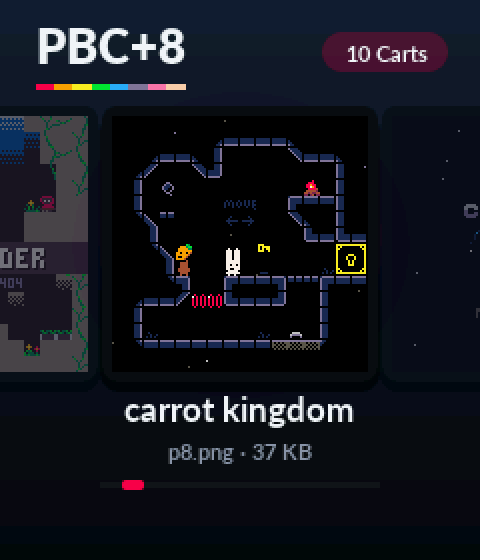
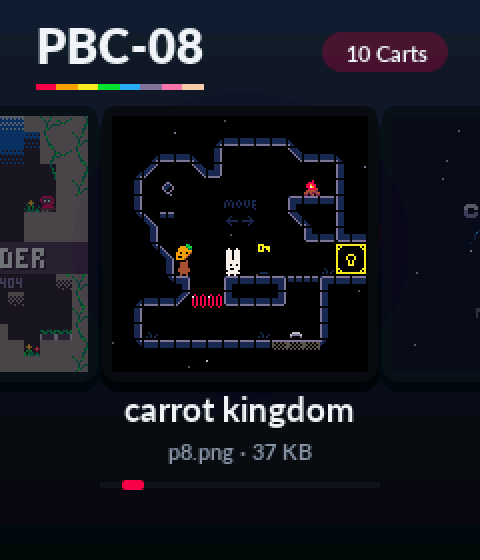
Rename to PBC-08 in honour of fake-08, credit jtothebell in the menu

Changed region(s): [[0.2812, 0.0304, 0.4375, 0.1214], [0.1875, 0.1518, 0.4375, 0.1821]]

diff --git a/src/menu.cpp b/src/menu.cpp
@@ -462,7 +462,7 @@ static void options_card(const Options &o, int slide)
         }
     }
     gfx_text_centered(&font_small, GFX_W / 2, y0 + 134, "links/rechts \x84ndern \xfa A/B fertig", DIM, 255);
-    gfx_text_centered(&font_small, GFX_W / 2, y0 + 156, "PBC+8 \xfa fake-08", FAINT, 255);
+    gfx_text_centered(&font_small, GFX_W / 2, y0 + 156, "PBC-08 \xfa fake-08 by jtothebell", FAINT, 255);
 }
 
 // ---- the menu ------------------------------------------------------------------------------
@@ -481,7 +481,7 @@ static void menu_screen(const Menu &m)
     background();
 
     // header
-    int lw = gfx_text(&font_title, 18, 8, "PBC+8", TEXT, 255);
+    int lw = gfx_text(&font_title, 18, 8, "PBC-08", TEXT, 255);
     logo_stripe(18, 42, lw, 3, 255);
     char chip[64];
     int n = count_carts(m.v);

diff --git a/src/usb_descriptors.c b/src/usb_descriptors.c
@@ -68,7 +68,7 @@ enum { STRID_LANGID, STRID_MANUFACTURER, STRID_PRODUCT, STRID_SERIAL };
 static const char *string_desc_arr[] = {
     (const char[]){ 0x09, 0x04 },   // 0: language = English (0x0409)
     "PicoBoy",                      // 1: Manufacturer
-    "PBC+8 Carts",             // 2: Product
+    "PBC-08 Carts",             // 2: Product
     NULL,                           // 3: Serial (filled from unique id)
 };
 

diff --git a/src/usb_msc.c b/src/usb_msc.c
@@ -36,7 +36,7 @@ void tud_msc_inquiry_cb(uint8_t lun, uint8_t vendor_id[8], uint8_t product_id[16
                         uint8_t product_rev[4]) {
     (void)lun;
     const char vid[] = "PicoBoy";
-    const char pid[] = "PBC+8 Carts";
+    const char pid[] = "PBC-08 Carts";
     const char rev[] = "1.0";
     memcpy(vendor_id,  vid, strlen(vid));
     memcpy(product_id, pid, strlen(pid));

diff --git a/CLAUDE.md b/CLAUDE.md
@@ -1,4 +1,4 @@
-# PBC+8 – Arbeitsnotizen
+# PBC-08 – Arbeitsnotizen
 
 PICO-8-kompatibler Player (fake-08 + z8lua) für den PicoBoy Color Plus.
 Repo: https://github.com/hcl1981/pbc-pico8 (öffentlich, Release v1.0 mit UF2).
@@ -11,7 +11,7 @@ Nutzer schreibt Deutsch; Antworten auf Deutsch. README.md beschreibt Bedienung u
 - Im USB-Stick-Modus liegt das Laufwerk unter `/run/media/$USER/PICO8`
   (Carts, `pico8.cfg`, `cdata/` mit Spielständen und ROM-Caches).
 - Nach Firmware-Änderungen: bauen, flashen, dann um einen Test am Gerät bitten.
-- Name auf dem Gerät ist „PBC+8“ (nicht „PICO-8“, Marke von Lexaloffle).
+- Name ist „PBC-08“ (Verweis auf fake-08; nie „PICO“ im Namen, Marke von Lexaloffle).
 - Commits als hcl1981 mit GitHub-noreply-Adresse; BBS-Carts nie committen.
 
 ## Hardware (PBC+)
@@ -67,6 +67,6 @@ HEAP_TOTAL, MARK_GC, PBC_NO_ROMCACHE, PBC_FIXED_SEED. Die Zahlen sind 64-Bit;
 - Am Gerät getestet: Celeste, Pico Valley, Crimson Night, Dust Bunny, 512px Under.
 - Auf dem Gerät: zusätzlich Carrot Kingdom, Peak of Empires, Loop, Molemole, Rubyeyes.
 - Zu groß: Touhou Unmei no Hoshi, Pico Backrooms (Level > 500 KB Lua), Tad.
-- Offen: Firmware mit „PBC+8“-Titel noch nicht geflasht; Advent 2025 stürzt am PC
+- Offen: Firmware mit „PBC-08“-Titel noch nicht geflasht; Advent 2025 stürzt am PC
   bei knappem Heap ab (rc=139) – ansehen; mögliche Einsparungen: Lua-Reserve 16 KB,
   ein einzelner Frame-Puffer, weniger Code im RAM.

diff --git a/README.md b/README.md
@@ -1,10 +1,11 @@
-# PBC+8
+# PBC-08
 
 Inoffizieller PICO-8-kompatibler Player für den **PicoBoy Color Plus** (RP2350A, 520 KB RAM, 16 MB
 Flash, ST7789 240×280, PWM-Lautsprecher). VM: [fake-08](https://github.com/jtothebell/fake-08)
-(MIT) mit z8lua, angepasst an 520 KB RAM.
+(MIT) von jtothebell mit z8lua, angepasst an 520 KB RAM. Der Name PBC-08 verneigt sich
+vor fake-08: „PBC“ statt „fake“, die „08“ bleibt.
 
-PICO-8 ist eine Marke von Lexaloffle Games. PBC+8 ist ein inoffizielles,
+PICO-8 ist eine Marke von Lexaloffle Games. PBC-08 ist ein inoffizielles,
 unabhängiges Projekt ohne Verbindung zu Lexaloffle und enthält keine
 Software von Lexaloffle.
 
